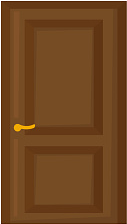
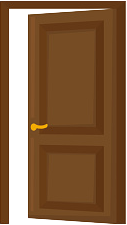
Update

Changed region(s): [[0.0, 0.0, 1.0, 1.0], [0.8031, 0.125, 0.8268, 0.5938], [0.8031, 0.6562, 0.8268, 0.875]]

diff --git a/Web/index.html b/Web/index.html
@@ -56,14 +56,14 @@
       <div class="item">56%</div>
       <div class="item">보통</div>
       <div class="item">현관문</div>
-      <div class="item">환기</div>
+      <div class="item">창문</div>
       <div class="item">화재</div>
-      <div class="item">G</div>
-      <div class="item">H</div>
-      <div class="item">I</div>
-      <div class="item">G</div>
-      <div class="item">H</div>
-      <div class="item">I</div>
+      <div class="item"><img class="picture" src="image\Door\현관문 열림.png"></div>
+      <div class="item"><img class="picture" src="image\Window\창문 열림.png"></div>
+      <div class="item"><img class="picture" src="image\Fire\화재 없음.png"></div>
+      <div class="item">열림</div>
+      <div class="item">열림</div>
+      <div class="item">화재 안전</div>
     </div>
   </main>
 </body>

diff --git a/Web/Web_Control.css b/Web/Web_Control.css
@@ -112,7 +112,7 @@ header {
 
 /** PAGE **/
 .Page {
-  padding-top: 5%;
+  padding-top: 10%;
   background-clip: padding-box;
   width: 100%;
   padding-bottom: 10%
@@ -137,7 +137,7 @@ header {
 /* grid-template-rows: 1fr 1fr 1fr */
   /* grid-template-rows: repeat(6, 1fr) */
 /* grid-template-rows: 200px 1fr */
-grid-template-rows: 100px 200px auto
+grid-template-rows: 50px 210px 70px 50px 210px 100px
   } 
 
 .picture {
